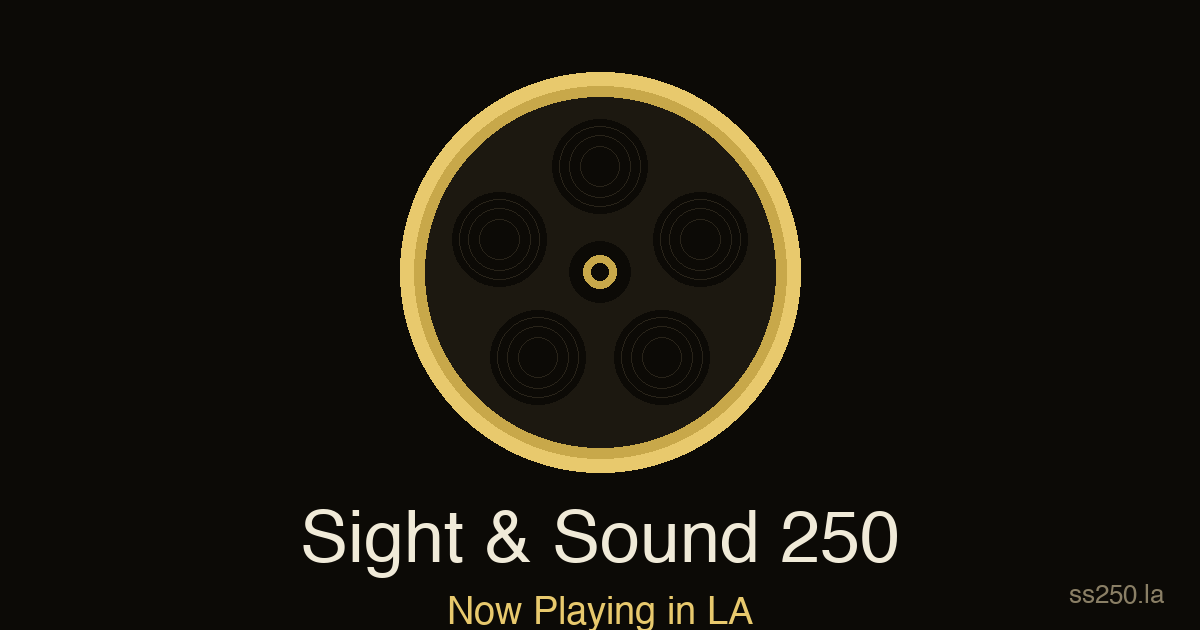
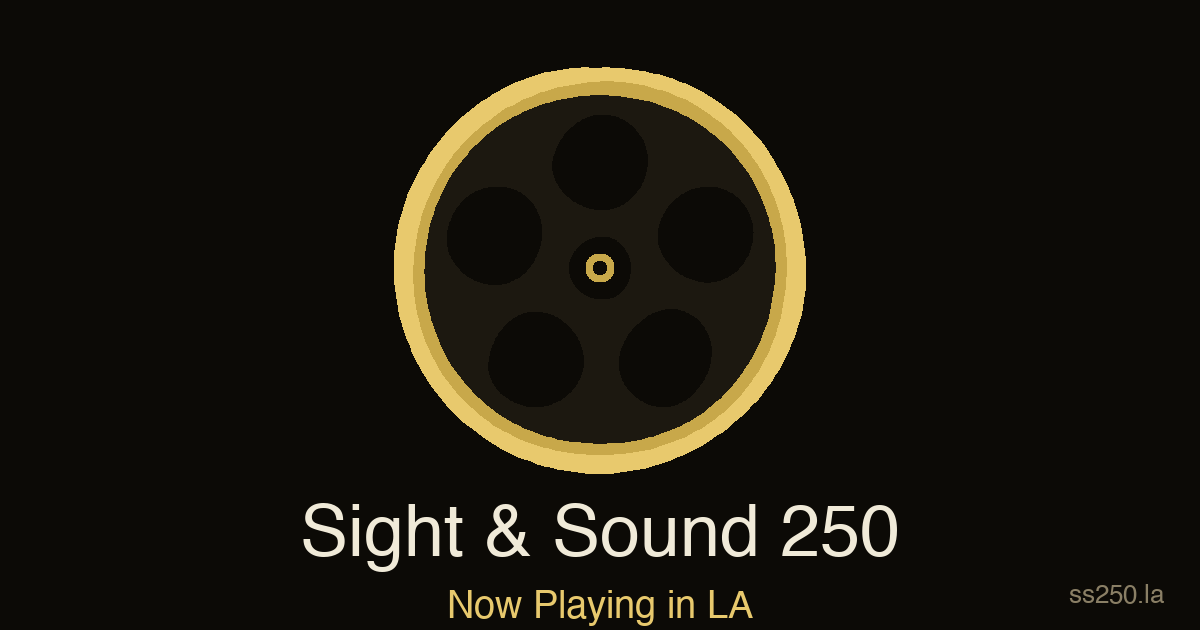
Redraw all film reel instances with hand-drawn bezier paths
Spinner (app.js), favicon.svg, and og-image.png now share the same
set of slightly organic cubic-bezier paths — 5 round windows, thick
rim with shadow ring, centre hub/spindle — all derived from the same
coordinate definitions so the shapes are visually consistent.

diff --git a/app.js b/app.js
@@ -391,18 +391,24 @@ function renderTheaterNav() {
   if (!scraperLoaded) {
     nav.innerHTML = `<div class="nav-loading">
       <svg class="reel-spinner" viewBox="0 0 80 80" xmlns="http://www.w3.org/2000/svg">
-        <!-- Disk body -->
-        <circle cx="40" cy="40" r="36" fill="currentColor"/>
-        <!-- Three large oval openings (split-reel windows) -->
-        <ellipse cx="40" cy="17" rx="6.5" ry="11.5" fill="var(--bg)"/>
-        <ellipse cx="40" cy="17" rx="6.5" ry="11.5" fill="var(--bg)" transform="rotate(120 40 40)"/>
-        <ellipse cx="40" cy="17" rx="6.5" ry="11.5" fill="var(--bg)" transform="rotate(240 40 40)"/>
-        <!-- Hub cutout -->
-        <circle cx="40" cy="40" r="10.5" fill="var(--bg)"/>
-        <!-- Hub collar ring -->
-        <circle cx="40" cy="40" r="10.5" fill="none" stroke="currentColor" stroke-width="2.5"/>
-        <!-- Centre spindle -->
-        <circle cx="40" cy="40" r="4.5" fill="currentColor"/>
+        <!-- Outer rim -->
+        <path d="M 39.0 4.0 C 61.0 3.0, 77.0 20.0, 77.0 41.0 C 77.0 61.0, 59.0 77.0, 40.0 77.0 C 19.0 77.0, 3.0 60.0, 3.0 40.0 C 3.0 19.0, 21.0 3.0, 39.0 4.0 Z" fill="currentColor"/>
+        <!-- Inner shadow ring -->
+        <path d="M 40.0 6.5 C 59.0 6.0, 74.0 21.0, 73.5 41.0 C 73.0 60.0, 59.0 74.0, 40.0 73.5 C 21.0 74.0, 6.0 59.5, 6.5 40.0 C 7.0 21.0, 22.0 7.0, 40.0 6.5 Z" fill="var(--surface2)"/>
+        <!-- Reel body -->
+        <path d="M 40.5 9.0 C 58.0 9.0, 72.0 23.0, 71.5 40.5 C 71.0 58.0, 58.0 72.0, 40.0 71.5 C 22.0 72.0, 8.0 57.5, 8.5 39.5 C 9.0 22.0, 23.0 8.5, 40.5 9.0 Z" fill="var(--bg)"/>
+        <!-- Film windows -->
+        <path d="M 39.5 12.5 C 45.0 12.0, 49.0 16.5, 48.5 21.5 C 48.0 26.5, 44.0 30.0, 39.5 29.5 C 35.0 29.0, 31.0 25.0, 31.5 21.0 C 32.0 17.0, 35.5 13.0, 39.5 12.5 Z" fill="var(--surface)"/>
+        <path d="M 59.0 25.5 C 64.0 25.0, 68.0 29.5, 67.5 34.5 C 67.0 39.5, 63.0 43.0, 58.5 42.5 C 54.0 42.0, 50.0 38.0, 50.5 33.5 C 51.0 29.0, 55.0 25.5, 59.0 25.5 Z" fill="var(--surface)"/>
+        <path d="M 52.0 47.5 C 56.5 47.0, 60.5 51.0, 60.0 56.0 C 59.5 61.0, 55.5 65.0, 51.5 65.0 C 47.0 65.0, 43.0 61.0, 43.5 56.5 C 44.0 52.0, 48.0 48.0, 52.0 47.5 Z" fill="var(--surface)"/>
+        <path d="M 27.5 48.0 C 32.5 47.5, 36.5 51.5, 37.0 56.0 C 37.5 61.0, 33.0 65.0, 28.5 65.0 C 24.0 65.0, 19.5 61.5, 20.0 57.0 C 20.5 52.5, 23.5 48.5, 27.5 48.0 Z" fill="var(--surface)"/>
+        <path d="M 21.0 25.5 C 26.0 25.0, 29.5 29.0, 29.5 33.5 C 29.5 38.5, 26.0 43.0, 21.0 43.0 C 16.5 43.0, 12.0 39.0, 12.5 34.0 C 13.0 29.5, 16.5 25.5, 21.0 25.5 Z" fill="var(--surface)"/>
+        <!-- Centre hub -->
+        <path d="M 40.0 34.5 C 43.0 34.0, 45.5 37.0, 45.5 40.0 C 45.5 43.5, 43.0 46.0, 40.0 45.5 C 37.0 45.5, 34.5 43.0, 34.5 40.0 C 34.5 37.0, 37.5 34.5, 40.0 34.5 Z" fill="var(--bg)"/>
+        <!-- Spindle -->
+        <path d="M 40.0 37.5 C 41.5 37.5, 42.5 38.5, 42.5 40.0 C 42.5 41.5, 41.5 42.5, 40.0 42.5 C 38.5 42.5, 37.5 41.5, 37.5 40.0 C 37.5 38.5, 38.5 37.5, 40.0 37.5 Z" fill="currentColor"/>
+        <!-- Centre dot -->
+        <path d="M 40.0 38.8 C 40.7 38.8, 41.2 39.3, 41.2 40.0 C 41.2 40.7, 40.7 41.2, 40.0 41.2 C 39.3 41.2, 38.8 40.7, 38.8 40.0 C 38.8 39.3, 39.3 38.8, 40.0 38.8 Z" fill="var(--bg)"/>
       </svg>
       <span id="reel-spinner-text">Loading schedules…</span>
     </div>`;

diff --git a/index.html b/index.html
@@ -15,7 +15,7 @@
   <meta name="twitter:card" content="summary_large_image">
   <meta name="twitter:image" content="https://ss250.la/og-image.png">
   <link rel="icon" type="image/svg+xml" href="favicon.svg">
-  <link rel="stylesheet" href="styles.css?v=9">
+  <link rel="stylesheet" href="styles.css?v=10">
 </head>
 <body>
   <header>
@@ -33,8 +33,8 @@
     <p class="footer-sampler">Brought to you by <a href="https://readthesampler.substack.com/" target="_blank" rel="noopener">The Sampler</a></p>
   </footer>
 
-  <script src="ss250.js?v=9"></script>
-  <script src="theaters.js?v=9"></script>
-  <script src="app.js?v=9"></script>
+  <script src="ss250.js?v=10"></script>
+  <script src="theaters.js?v=10"></script>
+  <script src="app.js?v=10"></script>
 </body>
 </html>
